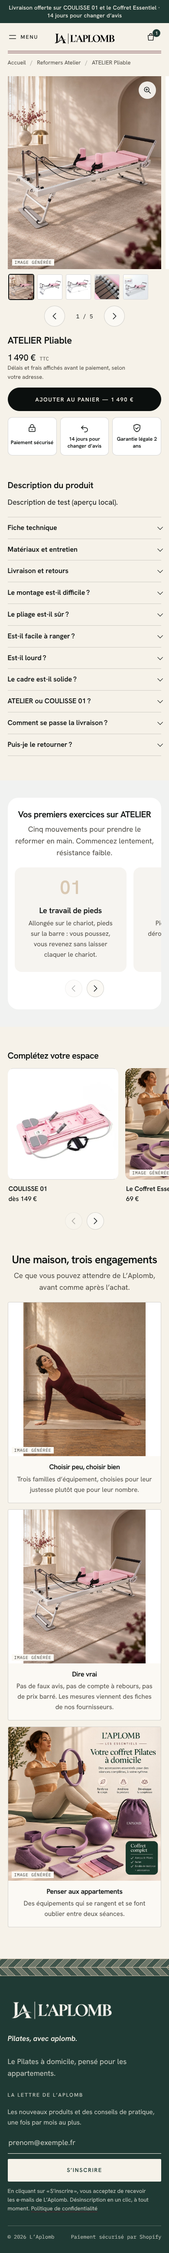
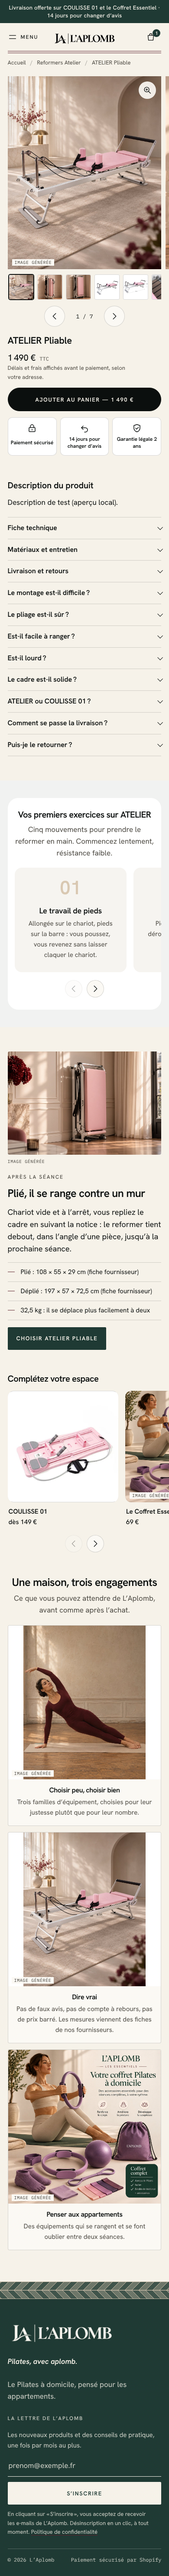
Reformer replié : visuels dans la galerie, l'accueil et une section « Plié, il se range »
Image et texte : une photo d'ambiance plus large que le cadre le remplit
(recadrée) au lieu d'être contenue entre deux bandes blanches.

Claude-Session: https://claude.ai/code/session_01JVxC767RbYfVA3orWDdFnz

diff --git a/tools/apercu/serveur.js b/tools/apercu/serveur.js
@@ -32,7 +32,8 @@ const locale = lireJson('locales/fr.default.json');
 const imageIA = (nom, w, h, alt) => ({ src: `/design/images-ia/${nom}`, width: w, height: h, alt, aspect_ratio: w / h });
 const TAILLES = {
   'plan-09-soiree.jpg': [1536, 1024], 'plan-07-coffret.jpg': [1536, 1024], 'plan-06-posture-provisoire.jpg': [1024, 1280],
-  'atelier-pliable-0-ambiance.jpg': [1122, 1402], '0c2d1da44e298772ffb0f69115cd.jpg': [664, 653], 'e91889c646d686461ef85700d425.jpg': [664, 653],
+  'atelier-pliable-0-ambiance.jpg': [1122, 1402], 'atelier-pliable-5-plie.jpg': [753, 941], 'atelier-pliable-6-plie.jpg': [753, 941],
+  'atelier-pliable-plie-salon-1.jpg': [1672, 941], 'atelier-pliable-plie-salon-2.jpg': [1672, 941], '0c2d1da44e298772ffb0f69115cd.jpg': [664, 653], 'e91889c646d686461ef85700d425.jpg': [664, 653],
   'f2e29f8b47bd8b2e338339bf9902.jpg': [669, 635], 'a17a7ed34c2b8a31c3c83caba9d0.jpg': [661, 629], '93040adb410abd48ee6f563c4581.jpg': [667, 658],
 };
 const imageMedia = (nom, w, h, alt) => ({ src: `/design/medias/${nom}`, width: w, height: h, alt, aspect_ratio: w / h });
@@ -101,6 +102,8 @@ const CATALOGUE = [
     description: '<p>Description de test (aperçu local).</p>',
     media: [
       ['atelier-pliable-0-ambiance.jpg', 1122, 1402, 'Reformer ATELIER Pliable dans un salon lumineux, image générée'],
+      ['atelier-pliable-5-plie.jpg', 753, 941, 'ATELIER Pliable replié, debout contre un mur, image générée'],
+      ['atelier-pliable-6-plie.jpg', 753, 941, 'ATELIER Pliable replié, plateau rose visible, image générée'],
       ['atelier-pliable-1.jpg', 800, 800, 'Reformer pliable ATELIER, vue de trois quarts'], ['atelier-pliable-2-dimensions.jpg', 800, 640, 'Encombrement du reformer déplié'],
       ['atelier-pliable-3-tubes.jpg', 800, 570, 'Tubes de résistance en latex'], ['atelier-pliable-4-vue.jpg', 1024, 1024, 'Reformer pliable ATELIER avec barre de pieds'],
     ].map(([n, w, h, a], i) => media(imageMedia(n, w, h, a), 20 + i)),

diff --git a/assets/aplomb-components.css b/assets/aplomb-components.css
@@ -4096,3 +4096,6 @@ html.visionneuse-ouverte {
   border-color: var(--ink);
   color: var(--ivory);
 }
+.image-texte__cadre--plein img {
+  object-fit: cover;
+}

diff --git a/tools/build_templates.py b/tools/build_templates.py
@@ -317,10 +317,10 @@ def index():
             "Rose, lavande ou noir",
         ]], "c"),
         "atelier": section("aplomb-image-texte", {
-            "ancre": "atelier", "produit": H_ATELIER, "image": img("atelier-pliable-0-ambiance.jpg"), "image_generee": True,
+            "ancre": "atelier", "produit": H_ATELIER, "image": img("atelier-pliable-plie-salon-1.jpg"), "image_generee": True,
             "inverser": True, "fond": "sable",
             "surtitre": "Le reformer qui se range", "titre": "ATELIER Pliable",
-            "texte": "<p>Un vrai reformer, avec son chariot sur rails et son cadre en acier, qui se replie après la séance.</p>",
+            "texte": "<p>Un vrai reformer, avec son chariot sur rails et son cadre en acier. Après la séance, il se replie et tient debout contre un mur.</p>",
             "cta_libelle": "Découvrir ATELIER Pliable",
         }, [("point", {"texte": t}) for t in [
             "Chariot rembourré sur rails, cadre en acier",
@@ -426,7 +426,18 @@ def product_atelier():
         q("Comment se passe la livraison ?", "Les délais et les frais s'affichent avant le paiement, selon votre adresse. Vous recevez un e-mail à l'expédition."),
         RETOUR,
     ]
-    return landing(principal, [("exercices", exercices)], faq_items)
+    rangement = section("aplomb-image-texte", {
+        "ancre": "rangement", "image": img("atelier-pliable-plie-salon-2.jpg"), "image_generee": True, "fond": "ivoire",
+        "surtitre": "Après la séance", "titre": "Plié, il se range contre un mur",
+        "texte": "<p>Chariot vide et à l'arrêt, vous repliez le cadre en suivant la notice : le reformer tient debout, "
+                 "dans l'angle d'une pièce, jusqu'à la prochaine séance.</p>",
+        "cta_libelle": "Choisir ATELIER Pliable",
+    }, [("point", {"texte": t}) for t in [
+        "Plié : 108 × 55 × 29 cm (fiche fournisseur)",
+        "Déplié : 197 × 57 × 72,5 cm (fiche fournisseur)",
+        "32,5 kg : il se déplace plus facilement à deux",
+    ]], "r")
+    return landing(principal, [("exercices", exercices), ("rangement", rangement)], faq_items)
 
 
 def product_essentiels():

diff --git a/design/medias/LISEZMOI.md b/design/medias/LISEZMOI.md
@@ -4,6 +4,7 @@
 |---|---|---|
 | `laplomb-logo.png`, `laplomb-monogramme.png` | Logo fourni (page xPage), fond transparent | Logo de marque |
 | `atelier-pliable-0-ambiance.jpg` | Visuel d’ambiance fourni le 9 novembre 2026 (reformer rose dans un salon), traité comme image générée | Mention « image générée » ; à retirer seulement s’il s’agit d’une vraie photo |
+| `atelier-pliable-plie-salon-1/2.jpg`, `atelier-pliable-5/6-plie.jpg` | Visuels du reformer replié fournis le 9 novembre 2026 (originaux 16:9 et recadrages 4:5 pour la galerie), traités comme images générées | Mention « image générée » |
 | `atelier-pliable-1…4.jpg` | Photos du fournisseur du reformer pliable (recadrées, textes retirés) | **Vérifier l’autorisation d’usage du fournisseur** |
 | `coffret-*.jpg` | Visuels L’APLOMB fournis le 9 novembre 2026, générés par IA | Mention « image générée » dans le texte alternatif |
 
